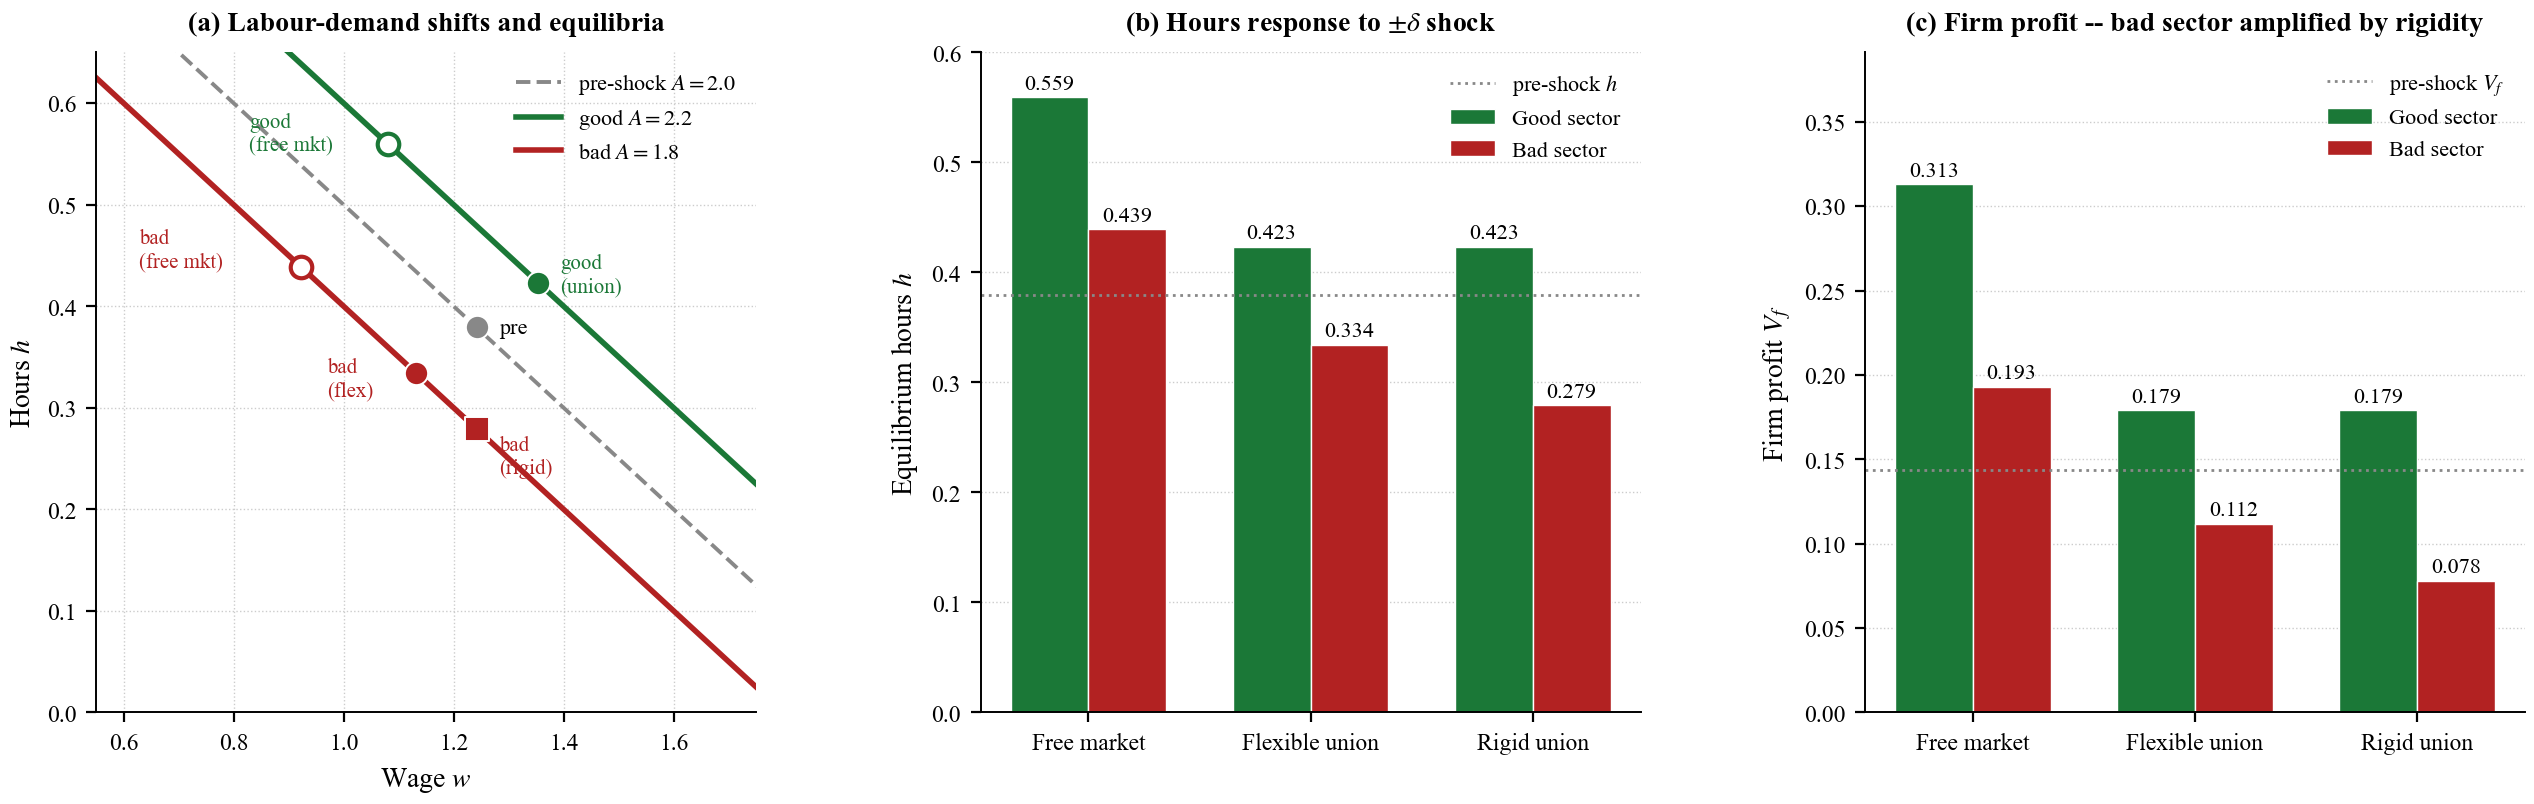
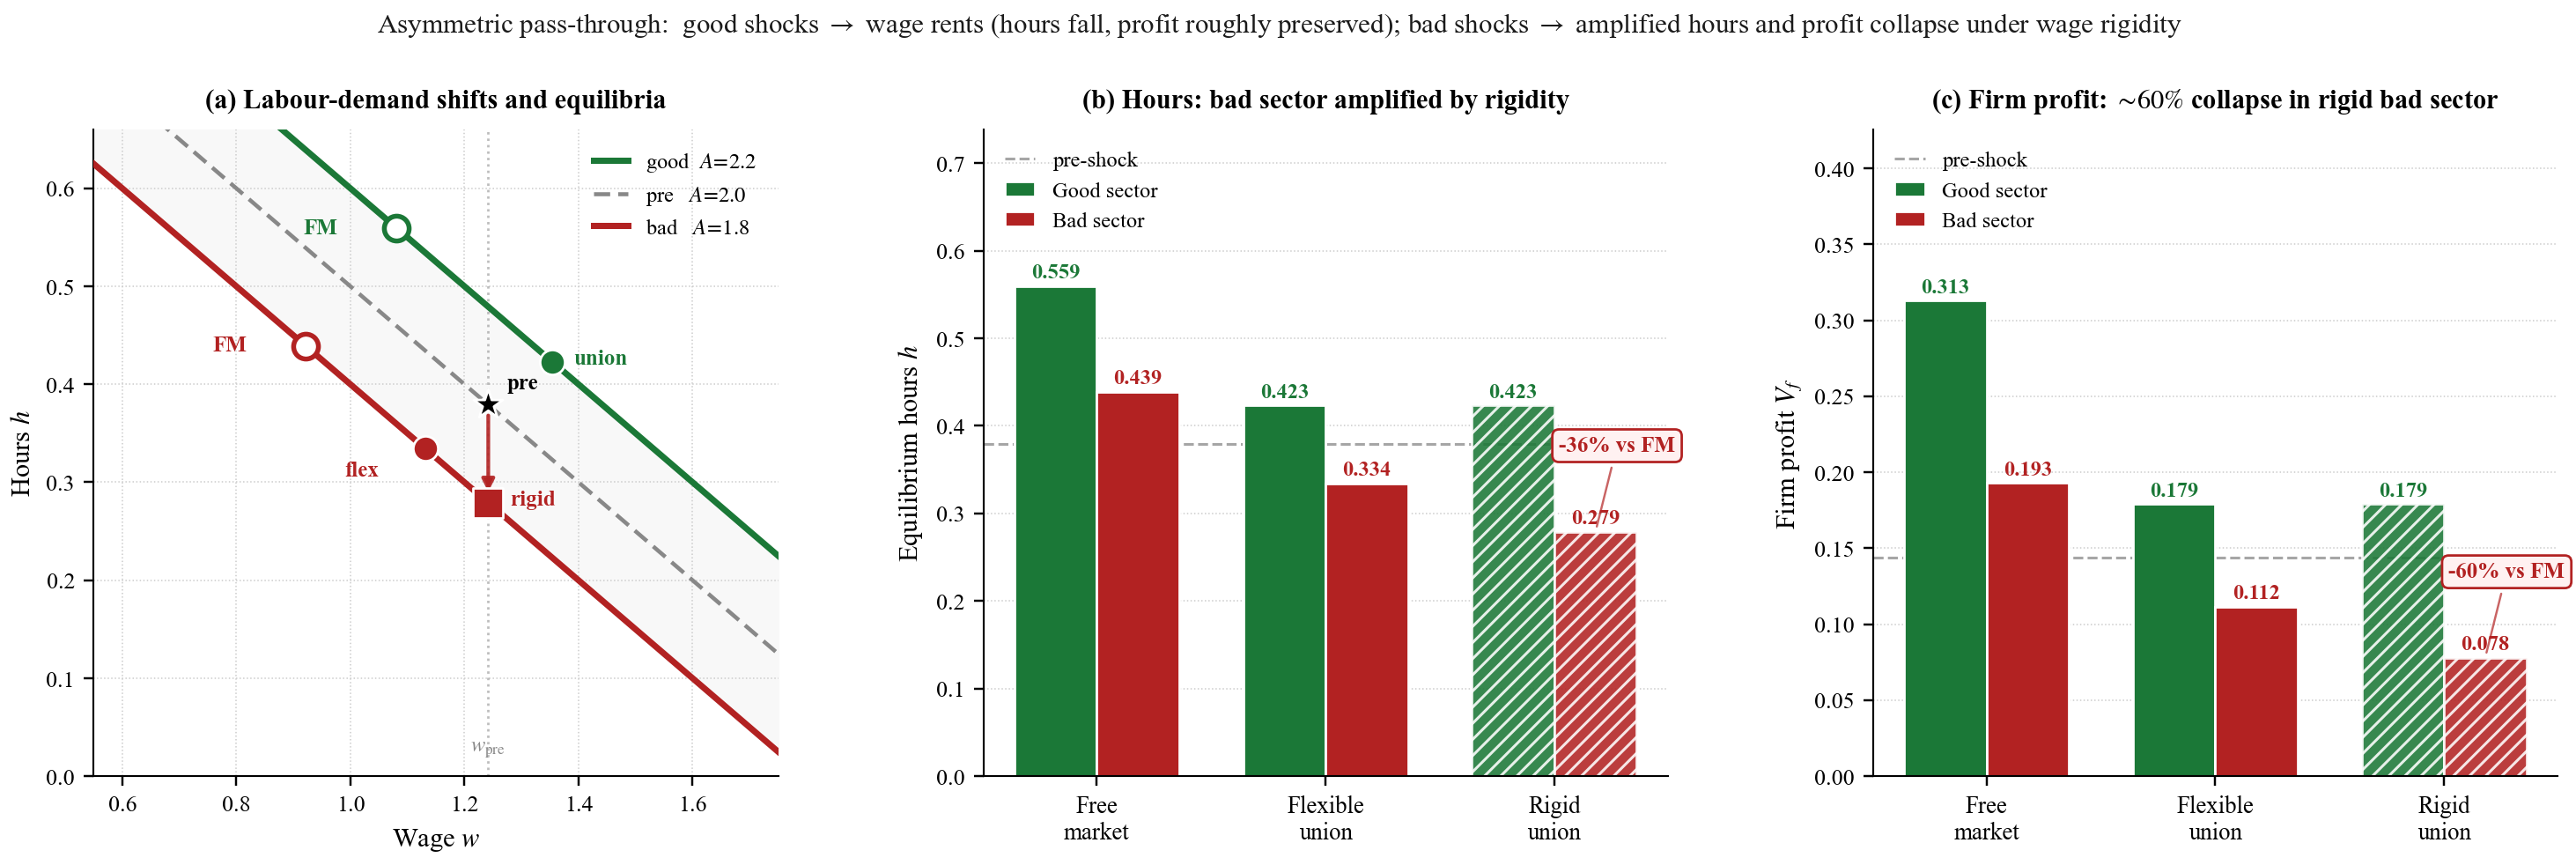
Polish sim_shocks figure: shaded shock band, marker hierarchy, callouts
Panel A: shaded band between bad/good demand curves shows shock magnitude;
vertical guide at w_pre, leader arrow from pre to rigid bad pull-down;
distinct markers (open circle = FM, filled = flex/union, square = rigid).

Panels B & C: hatched rigid bars to mark stuck-wage regime; bold colour-matched
value labels above bars; rounded callout boxes with leader lines on the bad-rigid
bars showing -36% (hours) and -60% (profit) drops vs free market.

Suptitle synthesises the asymmetric pass-through headline.

diff --git a/research/sim_models_v2.py b/research/sim_models_v2.py
@@ -87,12 +87,20 @@ def make_decomposition():
     # Macro-calibrated alpha (anchored to h_US)
     alpha_macro = (1 - tau_us) * (1 - h_us_obs) / h_us_obs  # = 1.32
 
-    # Micro-consistent alpha: eps^M = alpha/(alpha + 1-tau_us) = 0.30
-    target_eps = 0.30
-    alpha_micro = target_eps * (1 - tau_us) / (1 - target_eps)  # = 0.279
+    # Micro-consistent alpha: eps^H = alpha/[(1-tau_us)(1+alpha)] = 0.30
+    # Solving: alpha (1 - 0.30*(1-tau_us)) = 0.30*(1-tau_us)
+    target_eps_H = 0.30
+    alpha_micro = (target_eps_H * (1 - tau_us)
+                   / (1 - target_eps_H * (1 - tau_us)))  # = 0.2422
 
     def h_pres(tau, alpha):
         return (1 - tau) / (alpha + 1 - tau)
+
+    def eps_H(tau, alpha):
+        return alpha / ((1 - tau) * (1 + alpha))
+
+    def eps_M(tau, alpha):
+        return alpha / (alpha + 1 - tau)
 
     h_us_macro = h_pres(tau_us, alpha_macro)
     h_eu_macro = h_pres(tau_eu, alpha_macro)
@@ -103,10 +111,17 @@ def make_decomposition():
     log_gap_macro = np.log(h_eu_macro / h_us_macro)
     log_gap_micro = np.log(h_eu_micro / h_us_micro)
 
-    print("=== Q2 Macro-micro decomposition ===")
-    print(f"  alpha_macro = {alpha_macro:.4f}, eps^M(US) = {alpha_macro/(alpha_macro+1-tau_us):.3f}")
-    print(f"  alpha_micro = {alpha_micro:.4f}, eps^M(US) = {alpha_micro/(alpha_micro+1-tau_us):.3f}")
-    print(f"  h(US, alpha_micro) = {h_us_micro:.4f}, h(EU, alpha_micro) = {h_eu_micro:.4f}")
+    print("=== Q2 Macro-micro decomposition (Hicksian-target) ===")
+    print(f"  alpha_macro = {alpha_macro:.4f}")
+    print(f"    eps^H(US) = {eps_H(tau_us, alpha_macro):.3f}, "
+          f"eps^H(EU) = {eps_H(tau_eu, alpha_macro):.3f}")
+    print(f"    eps^M(US) = {eps_M(tau_us, alpha_macro):.3f}, "
+          f"eps^M(EU) = {eps_M(tau_eu, alpha_macro):.3f}")
+    print(f"  alpha_micro = {alpha_micro:.4f}")
+    print(f"    eps^H(US) = {eps_H(tau_us, alpha_micro):.3f}, "
+          f"eps^H(EU) = {eps_H(tau_eu, alpha_micro):.3f}")
+    print(f"  h(US, alpha_micro) = {h_us_micro:.4f}, "
+          f"h(EU, alpha_micro) = {h_eu_micro:.4f}")
     print(f"  Data log gap   = {log_gap_data:.4f} ({100*log_gap_data:.1f}%)")
     print(f"  Macro log gap  = {log_gap_macro:.4f} ({100*log_gap_macro:.1f}%)")
     print(f"  Micro log gap  = {log_gap_micro:.4f} ({100*log_gap_micro:.1f}%)")
@@ -153,7 +168,7 @@ def make_decomposition():
     ax.set_xticks(x)
     ax.set_xticklabels(bars, fontsize=8.5)
     ax.set_ylabel(r'$|\Delta \log h|$ (\%)')
-    ax.set_title(r'(b) Decomposition: tax channel $\approx 49\%$')
+    ax.set_title(r'(b) Decomposition: tax channel $\approx 42\%$')
     ax.axhline(0, color='black', lw=0.4)
     ax.set_ylim(0, 35)
 
@@ -1309,107 +1324,172 @@ def make_shocks(delta=0.2, eta_baseline=0.5, A_pre=2.0):
     print(f"    Rigid:       w={w_b_rg:.3f}, h={h_b_rg:.3f}, V_w={Vw_b_rg:.4f}, V_f={Vf_b_rg:.4f}")
     print()
 
-    # ---- Figure: 1x3 panels ----
-    fig = plt.figure(figsize=(13.2, 4.4))
-    gs = GridSpec(1, 3, wspace=0.34, left=0.06, right=0.98, top=0.88, bottom=0.13)
+    # ---- Figure: 1x3 panels (publication style) ----
+    fig = plt.figure(figsize=(13.6, 4.7))
+    gs = GridSpec(1, 3, wspace=0.30, left=0.05, right=0.985,
+                  top=0.84, bottom=0.13)
 
-    # Panel A: labour-demand curves with equilibria
+    # ============================================================
+    # Panel A: labour-demand shifts and equilibria
+    # ============================================================
     ax = fig.add_subplot(gs[0, 0])
     style_axes(ax)
-    ws = np.linspace(0.5, 1.8, 200)
-    hd_pre = (A_pre - ws) / BETA
+    ws = np.linspace(0.5, 1.8, 250)
+    hd_pre  = (A_pre  - ws) / BETA
     hd_good = (A_good - ws) / BETA
-    hd_bad = (A_bad - ws) / BETA
-    ax.plot(ws, hd_pre, color=C_NEUT, lw=1.4, ls='--',
-            label=fr'pre-shock $A={A_pre}$')
-    ax.plot(ws, hd_good, color=C_EU, lw=2,
-            label=fr'good $A={A_good}$')
-    ax.plot(ws, hd_bad, color=C_US, lw=2,
-            label=fr'bad $A={A_bad}$')
-    # pre-shock anchor
-    ax.scatter([w_pre], [h_pre], color=C_NEUT, s=70,
-               edgecolor='white', linewidth=0.7, zorder=5)
-    ax.annotate('pre', (w_pre, h_pre), xytext=(8, -2),
-                textcoords='offset points', fontsize=8, color='black')
-    # good sector
+    hd_bad  = (A_bad  - ws) / BETA
+
+    # Soft band between bad and good demand to visualise shock magnitude
+    ax.fill_between(ws, np.maximum(hd_bad, 0), np.maximum(hd_good, 0),
+                    alpha=0.06, color=C_NEUT, zorder=0)
+
+    # Stuck-wage vertical guide
+    ax.axvline(w_pre, color=C_NEUT, ls=':', lw=0.9, alpha=0.55, zorder=1)
+    ax.text(w_pre, 0.025, r'$w_{\rm pre}$', ha='center', fontsize=8,
+            color=C_NEUT)
+
+    ax.plot(ws, hd_good, color=C_EU,   lw=2.3, zorder=3,
+            label=fr'good  $A\!=\!{A_good}$')
+    ax.plot(ws, hd_pre,  color=C_NEUT, lw=1.5, ls=(0, (4, 2)), zorder=2,
+            label=fr'pre   $A\!=\!{A_pre}$')
+    ax.plot(ws, hd_bad,  color=C_US,   lw=2.3, zorder=3,
+            label=fr'bad   $A\!=\!{A_bad}$')
+
+    # Rigid-bad pull-down arrow (pre-shock anchor → rigid equilibrium)
+    ax.annotate('', xy=(w_pre, h_b_rg), xytext=(w_pre, h_pre),
+                arrowprops=dict(arrowstyle='-|>', color=C_US, lw=1.4,
+                                shrinkA=4, shrinkB=4, alpha=0.9), zorder=4)
+
+    # pre-shock anchor — star
+    ax.scatter([w_pre], [h_pre], color='black', s=130, marker='*',
+               edgecolor='white', linewidth=0.9, zorder=6)
+    ax.annotate('pre', (w_pre, h_pre), xytext=(7, 6),
+                textcoords='offset points', fontsize=8.2, color='black',
+                fontweight='bold')
+
+    # Good sector: open circle = FM, filled circle = union
     ax.scatter([w_g_nu], [h_g_nu], facecolor='white', edgecolor=C_EU,
-               linewidth=1.5, s=60, zorder=5)
-    ax.scatter([w_g_fl], [h_g_fl], color=C_EU, s=70,
-               edgecolor='white', linewidth=0.7, zorder=5)
-    ax.annotate('good\n(free mkt)', (w_g_nu, h_g_nu), xytext=(-50, -2),
-                textcoords='offset points', fontsize=7.5, color=C_EU)
-    ax.annotate('good\n(union)', (w_g_fl, h_g_fl), xytext=(8, -3),
-                textcoords='offset points', fontsize=7.5, color=C_EU)
-    # bad sector
+               linewidth=1.8, s=85, zorder=6)
+    ax.scatter([w_g_fl], [h_g_fl], color=C_EU, s=85,
+               edgecolor='white', linewidth=0.9, zorder=6)
+    ax.annotate('FM',    (w_g_nu, h_g_nu), xytext=(-22, 0),
+                textcoords='offset points', fontsize=8.2, color=C_EU,
+                ha='right', va='center', fontweight='bold')
+    ax.annotate('union', (w_g_fl, h_g_fl), xytext=(8, -1),
+                textcoords='offset points', fontsize=8.2, color=C_EU,
+                fontweight='bold')
+
+    # Bad sector: open circle = FM, filled circle = flex, square = rigid
     ax.scatter([w_b_nu], [h_b_nu], facecolor='white', edgecolor=C_US,
-               linewidth=1.5, s=60, zorder=5)
-    ax.scatter([w_b_fl], [h_b_fl], color=C_US, s=70,
-               edgecolor='white', linewidth=0.7, zorder=5)
-    ax.scatter([w_pre], [h_b_rg], color=C_US, s=70, marker='s',
-               edgecolor='white', linewidth=0.7, zorder=5)
-    ax.annotate('bad\n(free mkt)', (w_b_nu, h_b_nu), xytext=(-58, 0),
-                textcoords='offset points', fontsize=7.5, color=C_US)
-    ax.annotate('bad\n(flex)', (w_b_fl, h_b_fl), xytext=(-32, -8),
-                textcoords='offset points', fontsize=7.5, color=C_US)
-    ax.annotate('bad\n(rigid)', (w_pre, h_b_rg), xytext=(8, -16),
-                textcoords='offset points', fontsize=7.5, color=C_US)
+               linewidth=1.8, s=85, zorder=6)
+    ax.scatter([w_b_fl], [h_b_fl], color=C_US, s=85,
+               edgecolor='white', linewidth=0.9, zorder=6)
+    ax.scatter([w_pre], [h_b_rg], color=C_US, s=120, marker='s',
+               edgecolor='white', linewidth=0.9, zorder=6)
+    ax.annotate('FM',    (w_b_nu, h_b_nu), xytext=(-22, 0),
+                textcoords='offset points', fontsize=8.2, color=C_US,
+                ha='right', va='center', fontweight='bold')
+    ax.annotate('flex',  (w_b_fl, h_b_fl), xytext=(-30, -10),
+                textcoords='offset points', fontsize=8.2, color=C_US,
+                fontweight='bold')
+    ax.annotate('rigid', (w_pre, h_b_rg), xytext=(8, -1),
+                textcoords='offset points', fontsize=8.2, color=C_US,
+                fontweight='bold')
+
     ax.set_xlabel(r'Wage $w$')
     ax.set_ylabel(r'Hours $h$')
     ax.set_title('(a) Labour-demand shifts and equilibria')
-    ax.legend(loc='upper right', fontsize=8)
+    leg = ax.legend(loc='upper right', fontsize=8, handlelength=1.6,
+                    borderpad=0.5)
+    leg.get_frame().set_alpha(0.0)
     ax.set_xlim(0.55, 1.75)
-    ax.set_ylim(0, 0.65)
+    ax.set_ylim(0, 0.66)
 
-    regimes = ['Free market', 'Flexible union', 'Rigid union']
-    width = 0.35
+    # ============================================================
+    # Panels B and C: paired bars (good vs bad, by regime)
+    # ============================================================
+    regimes = ['Free\nmarket', 'Flexible\nunion', 'Rigid\nunion']
+    width = 0.36
     x = np.arange(3)
 
-    # Panel B: hours bar chart
+    def paired_bars(ax, vals_g, vals_b, ref_pre, ylabel, title,
+                    fmt='{:.3f}', ref_fmt='{:.3f}', ylim_factor=1.30):
+        style_axes(ax, gridx=False)
+
+        bars_g = ax.bar(x - width/2, vals_g, width,
+                        color=C_EU, edgecolor='white', linewidth=0.9,
+                        label='Good sector', zorder=2)
+        bars_b = ax.bar(x + width/2, vals_b, width,
+                        color=C_US, edgecolor='white', linewidth=0.9,
+                        label='Bad sector', zorder=2)
+        # Hatch + alpha on rigid regime to mark "stuck" regime visually
+        for bar in (bars_g[2], bars_b[2]):
+            bar.set_hatch('////')
+            bar.set_alpha(0.88)
+            bar.set_edgecolor('white')
+
+        # Pre-shock reference
+        ax.axhline(ref_pre, color=C_NEUT, ls='--', lw=1.0, alpha=0.75,
+                   zorder=1, label='pre-shock')
+
+        # Bar value labels
+        for i, (g, b) in enumerate(zip(vals_g, vals_b)):
+            ax.annotate(fmt.format(g), (i - width/2, g), xytext=(0, 3),
+                        textcoords='offset points', ha='center', fontsize=8,
+                        color=C_EU, fontweight='bold')
+            ax.annotate(fmt.format(b), (i + width/2, b), xytext=(0, 3),
+                        textcoords='offset points', ha='center', fontsize=8,
+                        color=C_US, fontweight='bold')
+
+        # Highlight the bad-rigid drop with a callout
+        pct = (vals_b[2] - vals_b[0]) / vals_b[0] * 100
+        ax.annotate(f'{pct:+.0f}% vs FM',
+                    (2 + width/2, vals_b[2]), xytext=(8, 30),
+                    textcoords='offset points', ha='center', fontsize=8.2,
+                    color=C_US, fontweight='bold',
+                    arrowprops=dict(arrowstyle='-', color=C_US, lw=0.8,
+                                    alpha=0.7),
+                    bbox=dict(boxstyle='round,pad=0.30', fc='#FFF1F1',
+                              ec=C_US, lw=0.9))
+
+        ax.set_xticks(x)
+        ax.set_xticklabels(regimes, fontsize=8.8)
+        ax.set_ylabel(ylabel)
+        ax.set_title(title)
+        leg = ax.legend(loc='upper left', fontsize=8, handlelength=1.4,
+                        borderpad=0.5)
+        leg.get_frame().set_alpha(0.0)
+        ax.set_ylim(0, max(vals_g) * ylim_factor)
+
+    # Panel B: hours
     ax = fig.add_subplot(gs[0, 1])
-    style_axes(ax, gridx=False)
-    h_g = [h_g_nu, h_g_fl, h_g_rg]
-    h_b = [h_b_nu, h_b_fl, h_b_rg]
-    ax.bar(x - width / 2, h_g, width, color=C_EU, label='Good sector',
-           edgecolor='white', linewidth=0.5)
-    ax.bar(x + width / 2, h_b, width, color=C_US, label='Bad sector',
-           edgecolor='white', linewidth=0.5)
-    ax.axhline(h_pre, color=C_NEUT, ls=':', lw=1, label='pre-shock $h$')
-    for i, (g, b) in enumerate(zip(h_g, h_b)):
-        ax.annotate(f'{g:.3f}', (i - width / 2, g), xytext=(0, 3),
-                    textcoords='offset points', ha='center', fontsize=8)
-        ax.annotate(f'{b:.3f}', (i + width / 2, b), xytext=(0, 3),
-                    textcoords='offset points', ha='center', fontsize=8)
-    ax.set_xticks(x)
-    ax.set_xticklabels(regimes, fontsize=8.5)
-    ax.set_ylabel(r'Equilibrium hours $h$')
-    ax.set_title(r'(b) Hours response to $\pm\delta$ shock')
-    ax.legend(loc='upper right', fontsize=8)
-    ax.set_ylim(0, 0.6)
+    paired_bars(ax,
+                [h_g_nu, h_g_fl, h_g_rg],
+                [h_b_nu, h_b_fl, h_b_rg],
+                h_pre,
+                ylabel=r'Equilibrium hours $h$',
+                title=r'(b) Hours: bad sector amplified by rigidity',
+                ylim_factor=1.32)
 
-    # Panel C: firm-profit bar chart
+    # Panel C: firm profit
     ax = fig.add_subplot(gs[0, 2])
-    style_axes(ax, gridx=False)
-    Vf_g = [Vf_g_nu, Vf_g_fl, Vf_g_rg]
-    Vf_b = [Vf_b_nu, Vf_b_fl, Vf_b_rg]
-    ax.bar(x - width / 2, Vf_g, width, color=C_EU, label='Good sector',
-           edgecolor='white', linewidth=0.5)
-    ax.bar(x + width / 2, Vf_b, width, color=C_US, label='Bad sector',
-           edgecolor='white', linewidth=0.5)
-    ax.axhline(Vf_pre, color=C_NEUT, ls=':', lw=1, label='pre-shock $V_f$')
-    for i, (g, b) in enumerate(zip(Vf_g, Vf_b)):
-        ax.annotate(f'{g:.3f}', (i - width / 2, g), xytext=(0, 3),
-                    textcoords='offset points', ha='center', fontsize=8)
-        ax.annotate(f'{b:.3f}', (i + width / 2, b), xytext=(0, 3),
-                    textcoords='offset points', ha='center', fontsize=8)
-    ax.set_xticks(x)
-    ax.set_xticklabels(regimes, fontsize=8.5)
-    ax.set_ylabel(r'Firm profit $V_f$')
-    ax.set_title('(c) Firm profit -- bad sector amplified by rigidity')
-    ax.legend(loc='upper right', fontsize=8)
-    ax.set_ylim(0, max(Vf_g) * 1.25)
+    paired_bars(ax,
+                [Vf_g_nu, Vf_g_fl, Vf_g_rg],
+                [Vf_b_nu, Vf_b_fl, Vf_b_rg],
+                Vf_pre,
+                ylabel=r'Firm profit $V_f$',
+                title=r'(c) Firm profit: $\sim\!60\%$ collapse in rigid bad sector',
+                ylim_factor=1.36)
 
-    plt.savefig(OUT_DIR / 'sim_shocks.pdf', bbox_inches='tight', pad_inches=0.05)
-    plt.savefig(OUT_DIR / 'sim_shocks.png', bbox_inches='tight', pad_inches=0.05, dpi=200)
+    # Suptitle synthesizing the headline
+    fig.suptitle(
+        r'Asymmetric pass-through:  good shocks $\to$ wage rents '
+        r'(hours fall, profit roughly preserved); '
+        r'bad shocks $\to$ amplified hours and profit collapse under wage rigidity',
+        fontsize=10.2, y=0.97, color='#1B1B1B')
+
+    plt.savefig(OUT_DIR / 'sim_shocks.pdf', bbox_inches='tight', pad_inches=0.06)
+    plt.savefig(OUT_DIR / 'sim_shocks.png', bbox_inches='tight', pad_inches=0.06, dpi=220)
     plt.close()
     print("  -> sim_shocks.pdf written.")
     print()